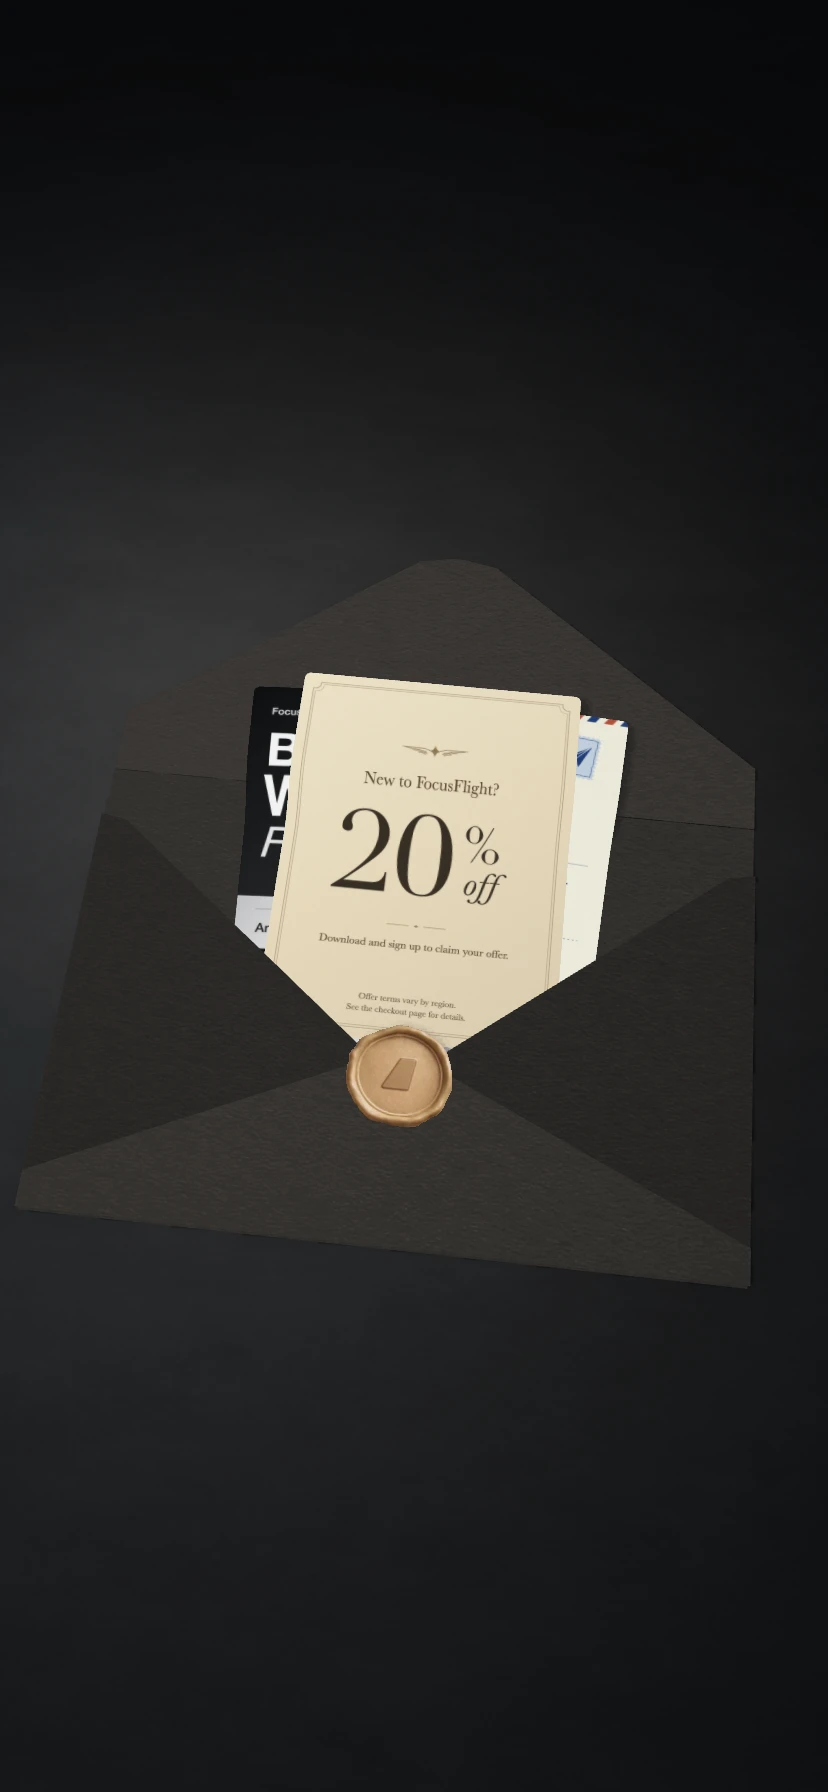
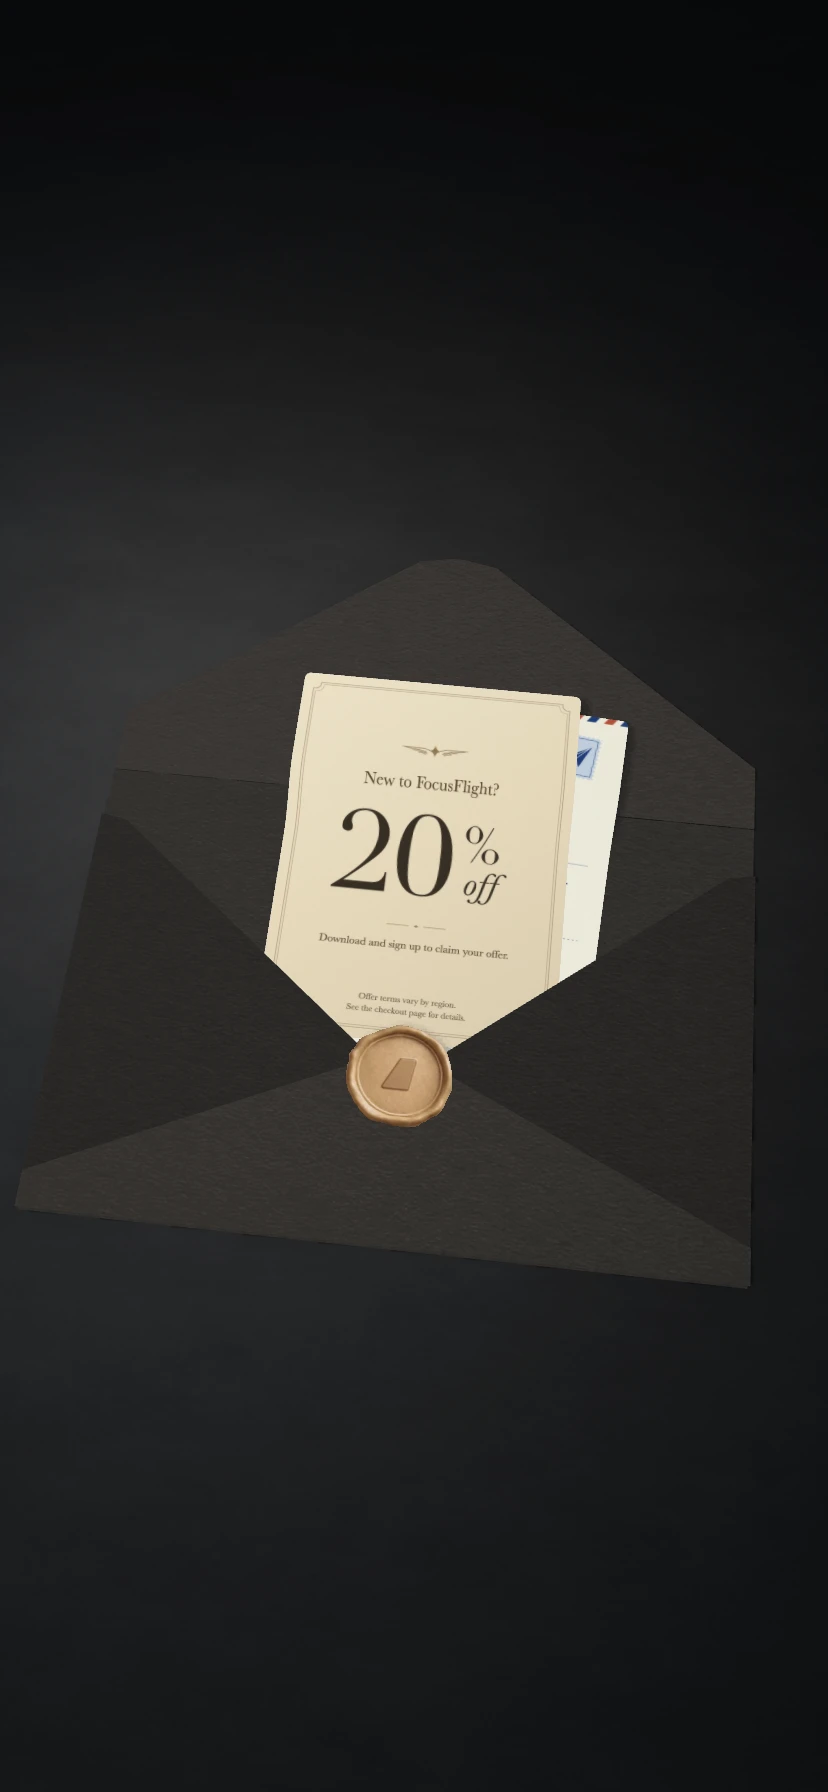
fix: 暂时隐藏黑五活动

Changed region(s): [[0.2717, 0.375, 0.3623, 0.5312]]

diff --git a/index.html b/index.html
@@ -376,10 +376,10 @@
   <script src="/focusflight-preview/button-motion.js?v=aqua-nav" type="module"></script>
   <link rel="stylesheet" href="/focusflight-preview/deep-focus.css?v=short-landscape">
   <link rel="stylesheet" href="/focusflight-preview/download.css?v=badge-spacing">
-  <link rel="stylesheet" href="/focusflight-preview/gift.css?v=badge-spacing">
+  <link rel="stylesheet" href="/focusflight-preview/gift.css?v=hidden-black-week">
   <link rel="stylesheet" href="/focusflight-preview/mobile.css" media="(max-width: 520px)">
   <script src="/focusflight-preview/download-count.js?v=badge-spacing" type="module"></script>
-  <script src="/focusflight-preview/sky.js?v=device-scroll" type="module"></script>
+  <script src="/focusflight-preview/sky.js?v=hidden-black-week" type="module"></script>
   <script src="/focusflight-preview/showcase.js?v=frame-handoff" type="module"></script>
 </head>
 <body>
@@ -666,8 +666,8 @@
     <section class="gift" id="gift" aria-label="Gift" tabindex="-1">
       <div class="gift-night">
         <picture class="gift-studio">
-          <source media="(max-aspect-ratio: 4/5)" srcset="/focusflight-preview/gift/studio-portrait.webp?v=english-cards" width="828" height="1792">
-          <img src="/focusflight-preview/gift/studio.webp?v=english-cards" alt="An envelope with three offer cards" width="1920" height="1200" decoding="async" loading="lazy">
+          <source media="(max-aspect-ratio: 4/5)" srcset="/focusflight-preview/gift/studio-portrait.webp?v=hidden-black-week" width="828" height="1792">
+          <img src="/focusflight-preview/gift/studio.webp?v=hidden-black-week" alt="An envelope with offer cards" width="1920" height="1200" decoding="async" loading="lazy">
         </picture>
         <div class="gift-letter-poster" aria-hidden="true"></div>
         <picture class="runway-poster" aria-hidden="true">
@@ -685,7 +685,7 @@
         <p class="gift-details">Offer terms vary by region — see the checkout page for details.</p>
       </div>
     </section>
-    <section class="gift-letter" id="black-week" aria-labelledby="black-week-title" tabindex="-1" inert>
+    <section class="gift-letter" id="black-week" hidden aria-labelledby="black-week-title" tabindex="-1" inert>
       <button class="gift-print black-week-print" type="button" aria-haspopup="dialog" aria-controls="gift-reader" aria-label="Enlarge the Black Week Flight card"></button>
       <div class="gift-copy">
         <h2 id="black-week-title">Black Week Flight</h2>

diff --git a/sky.js b/sky.js
@@ -1,4 +1,4 @@
-import { setupGiftDescent } from "./gift.js?v=rolling-count";
+import { setupGiftDescent } from "./gift.js?v=hidden-black-week";
 import { setupWindowFlight } from "./window-flight.js?v=sky-meteor";
 import { setupPortholeSky } from "./porthole/sky.js?v=compact-noise";
 import { setupWindowShade } from "./porthole/shade.js?v=static-porthole";
@@ -238,7 +238,7 @@ const setCamera = setupPortholeSky(deepFocus.querySelector(".porthole-frame"));
 const download = document.getElementById("download");
 const windowFlight = setupWindowFlight(deepFocus, download, ease, setCamera);
 const gift = document.getElementById("gift");
-const campaignSlides = [...document.querySelectorAll(".gift-letter")];
+const campaignSlides = [...document.querySelectorAll(".gift-letter:not([hidden])")];
 const runway = document.getElementById("runway");
 const sections = [sky, showcase, deepFocus, download, gift, ...campaignSlides, runway];
 const showcasePage = sections.indexOf(showcase);

diff --git a/gift/invitation.js b/gift/invitation.js
@@ -196,7 +196,8 @@ export function prepareInvitation(gl, program, project, shadows, studioAir, atla
   }
   // Welcome on top, brushed silver and airmail stock just behind its edges.
   strips(cardRows,7,.013,[1372,4,672,896],insert,12);
-  strips(cardRows,6,.021,[688,4,672,896],insert,12);
+  // Black Week is temporarily hidden. Restore this sheet with its campaign slide.
+  // strips(cardRows,6,.021,[688,4,672,896],insert,12);
   strips(cardRows,2,.029,[4,4,672,896],insert,12);
   for(const side of [-1,1]) {
     polygon([[side*1.24,-.865],[side*1.24,.65],[side*1.14,.63],[0,-.29]],1,.039);

diff --git a/gift.css b/gift.css
@@ -85,6 +85,7 @@
     radial-gradient(ellipse at 38% 24%, #303237, transparent 54%),
     radial-gradient(ellipse at 55% 62%, #22272d, transparent 68%), #080c13;
 }
+.gift-letter[hidden] { display: none; }
 .gift-letter {
   --gift-top: var(--phone-top, calc(var(--header-top) + var(--header-height) + 12px));
   --gift-bottom: var(--phone-bottom, max(20px, env(safe-area-inset-bottom)));

diff --git a/gift.js b/gift.js
@@ -1,4 +1,4 @@
-import { setupStudio, framingOffset } from "./gift/camera.js?v=english-cards";
+import { setupStudio, framingOffset } from "./gift/camera.js?v=hidden-black-week";
 import { prepareCopy } from "./motion-copy.js";
 
 export function setupGiftDescent(download, gift, slides, runway, windowFlight, ease, cameraTravel) {

diff --git a/gift/camera.js b/gift/camera.js
@@ -1,5 +1,5 @@
 import { getHardwareContext } from "../hardware-gl.js";
-import { prepareInvitation } from "./invitation.js?v=gift-sheet";
+import { prepareInvitation } from "./invitation.js?v=hidden-black-week";
 
 const project = `
   uniform vec3 eye, right, up, forward;
